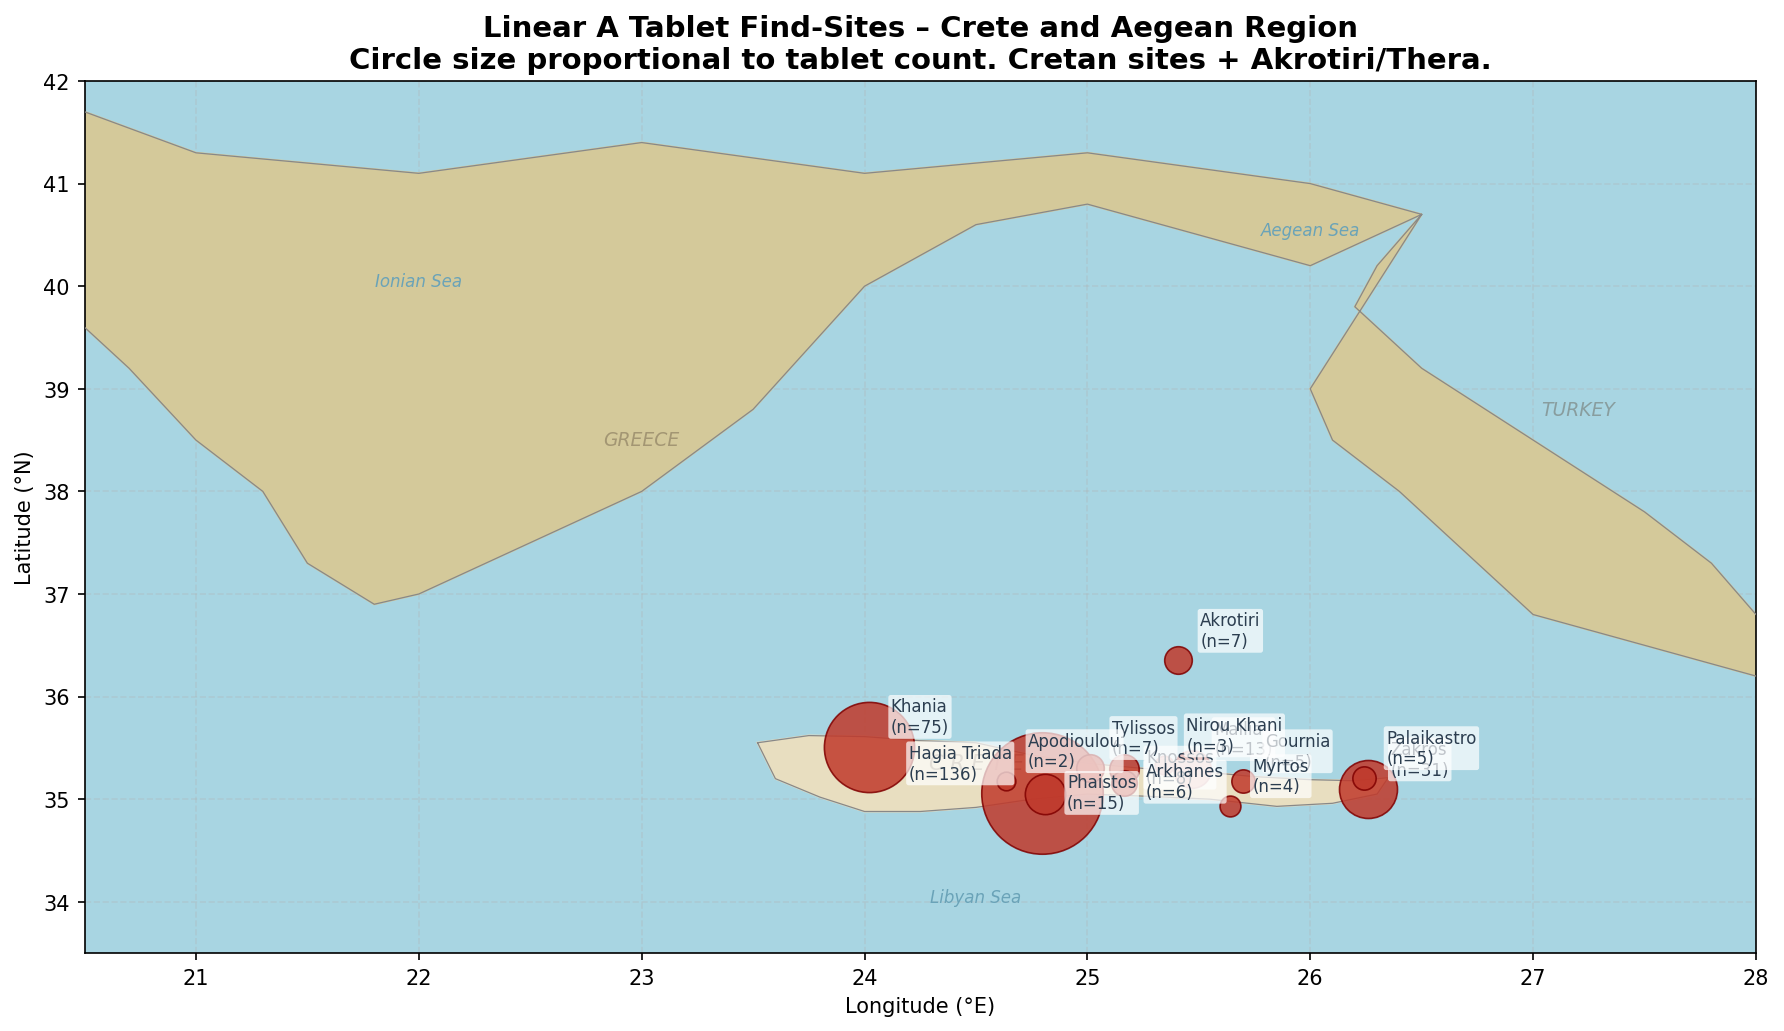
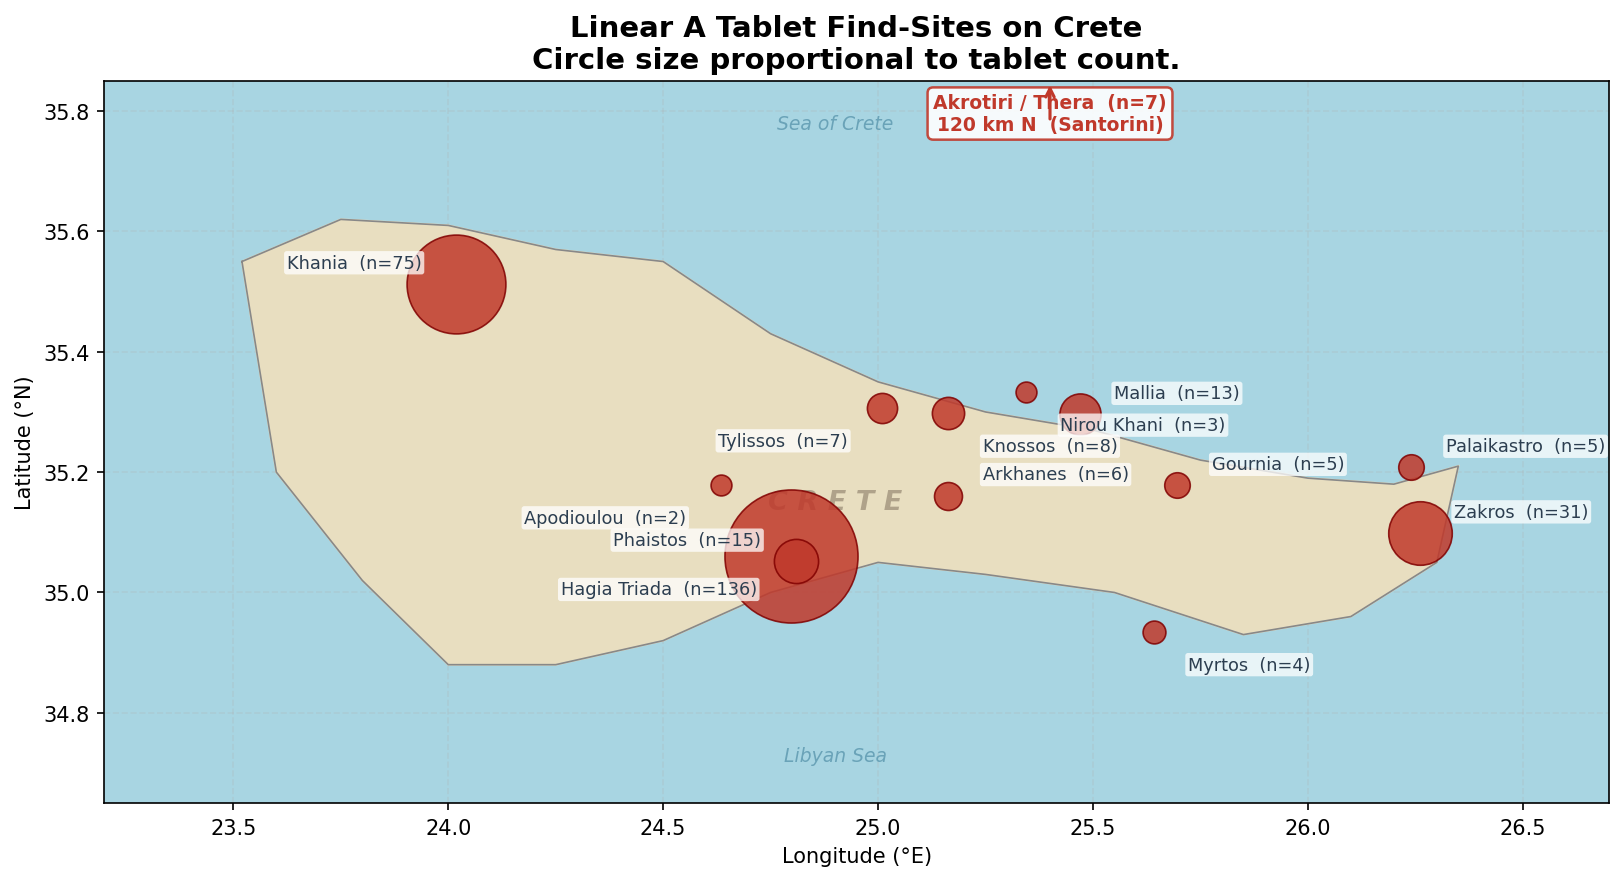
feat: zoom map to Crete only, improve timeline with range bars and jitter

diff --git a/builder_lina_stats.py b/builder_lina_stats.py
@@ -443,75 +443,96 @@ def _tbl_site_breakdown(df: pd.DataFrame) -> Tuple[str, str, str]:
 
 def _fig_site_map(df: pd.DataFrame) -> Tuple[str, str, str]:
     site_df  = get_site_summary_df(df)
-    fig, ax  = plt.subplots(figsize=(12, 7))
+    fig, ax  = plt.subplots(figsize=(14, 6))
 
     # Sea background
     ax.set_facecolor("#A8D5E2")
 
-    # Land polygons
-    for outline, color in [
-        (GREECE_OUTLINE,   "#D4C99A"),
-        (TURKEY_W_OUTLINE, "#D4C99A"),
-        (CRETE_OUTLINE,    "#E8DEC0"),
-    ]:
-        xs = [p[0] for p in outline]
-        ys = [p[1] for p in outline]
-        ax.fill(xs, ys, color=color, zorder=2)
-        ax.plot(xs + [xs[0]], ys + [ys[0]], color="#888888",
-                linewidth=0.6, zorder=3)
+    # Crete only
+    xs = [p[0] for p in CRETE_OUTLINE]
+    ys = [p[1] for p in CRETE_OUTLINE]
+    ax.fill(xs, ys, color="#E8DEC0", zorder=2)
+    ax.plot(xs + [xs[0]], ys + [ys[0]], color="#888888",
+            linewidth=0.8, zorder=3)
 
-    # Map extent: slightly wider than Crete extremes
-    ax.set_xlim(20.5, 28.0)
-    ax.set_ylim(33.5, 42.0)
+    # Map extent: tight around Crete with padding
+    ax.set_xlim(23.2, 26.7)
+    ax.set_ylim(34.65, 35.85)
+    ax.set_aspect(1.4)  # rough Mercator correction at 35°N
 
-    # Site scatter – size proportional to tablet count
+    # Manual label nudges: (offset_x, offset_y, ha, va)
+    _nudge = {
+        "Hagia Triada": (-0.08, -0.04, "right", "top"),
+        "Phaistos":     (-0.08,  0.02, "right", "bottom"),
+        "Knossos":      ( 0.08, -0.04, "left",  "top"),
+        "Arkhanes":     ( 0.08,  0.02, "left",  "bottom"),
+        "Khania":       (-0.08,  0.02, "right", "bottom"),
+        "Mallia":       ( 0.08,  0.02, "left",  "bottom"),
+        "Tylissos":     (-0.08, -0.04, "right", "top"),
+        "Myrtos":       ( 0.08, -0.04, "left",  "top"),
+        "Nirou Khani":  ( 0.08, -0.04, "left",  "top"),
+        "Gournia":      ( 0.08,  0.02, "left",  "bottom"),
+        "Palaikastro":  ( 0.08,  0.02, "left",  "bottom"),
+        "Apodioulou":   (-0.08, -0.04, "right", "top"),
+    }
+
+    # Cretan site scatter
     for _, row in site_df.iterrows():
-        size = max(80, row["tablet_count"] * 25)
+        if row["island"] != "Crete":
+            continue
+        size = max(100, row["tablet_count"] * 30)
         ax.scatter(row["lon"], row["lat"], s=size,
                    color="#C0392B", edgecolors="#800000",
                    linewidths=0.8, zorder=5, alpha=0.85)
-        # Label offset to avoid overlap
-        offset_x = 0.10
-        offset_y = 0.10
-        # Manual nudges for closely spaced sites
-        if row["site"] in ("Phaistos", "Knossos", "Arkhanes"):
-            offset_y = -0.18
-        if row["site"] == "Hagia Triada":
-            offset_x = -0.60
-        ax.text(row["lon"] + offset_x, row["lat"] + offset_y,
-                f"{row['site']}\n(n={row['tablet_count']})",
-                fontsize=8, zorder=6, color="#2C3E50",
-                ha="left", va="bottom",
-                bbox=dict(boxstyle="round,pad=0.15", fc="white",
-                          ec="none", alpha=0.7))
+        ox, oy, ha, va = _nudge.get(row["site"], (0.08, 0.02, "left", "bottom"))
+        ax.annotate(
+            f"{row['site']}  (n={row['tablet_count']})",
+            xy=(row["lon"], row["lat"]),
+            xytext=(row["lon"] + ox, row["lat"] + oy),
+            fontsize=8.5, color="#2C3E50", zorder=6,
+            ha=ha, va=va,
+            bbox=dict(boxstyle="round,pad=0.15", fc="white", ec="none", alpha=0.75),
+        )
 
-    # Annotations
-    ax.text(24.5, 35.35, "C R E T E", fontsize=10, color="#5A4A3A",
-            ha="center", va="center", alpha=0.5, style="italic", zorder=4)
-    ax.text(23.0, 38.5, "GREECE", fontsize=9, color="#5A4A3A",
-            ha="center", va="center", alpha=0.4, style="italic", zorder=4)
-    ax.text(27.2, 38.8, "TURKEY", fontsize=9, color="#5A4A3A",
-            ha="center", va="center", alpha=0.4, style="italic", zorder=4)
-    ax.text(24.5, 34.0, "Libyan Sea", fontsize=8, color="#6AA3B8",
+    # Akrotiri callout (off-map, annotated in corner)
+    akrotiri = site_df[site_df["site"] == "Akrotiri"]
+    if not akrotiri.empty:
+        n = int(akrotiri.iloc[0]["tablet_count"])
+        ax.annotate(
+            f"Akrotiri / Thera  (n={n})\n120 km N  (Santorini)",
+            xy=(25.4, 35.83), fontsize=9, color="#C0392B",
+            ha="center", va="top", fontweight="bold",
+            bbox=dict(boxstyle="round,pad=0.3", fc="white", ec="#C0392B",
+                      alpha=0.9, linewidth=1.2),
+            zorder=7,
+        )
+        # north-pointing arrow
+        ax.annotate("", xy=(25.4, 35.85), xytext=(25.4, 35.78),
+                    arrowprops=dict(arrowstyle="->", color="#C0392B", lw=1.5),
+                    zorder=7)
+
+    # Island label
+    ax.text(24.9, 35.15, "C R E T E", fontsize=13, color="#5A4A3A",
+            ha="center", va="center", alpha=0.4, style="italic",
+            fontweight="bold", zorder=4)
+    ax.text(24.9, 34.72, "Libyan Sea", fontsize=9, color="#6AA3B8",
             ha="center", style="italic", zorder=4)
-    ax.text(22.0, 40.0, "Ionian Sea", fontsize=8, color="#6AA3B8",
-            ha="center", style="italic", zorder=4)
-    ax.text(26.0, 40.5, "Aegean Sea", fontsize=8, color="#6AA3B8",
+    ax.text(24.9, 35.77, "Sea of Crete", fontsize=9, color="#6AA3B8",
             ha="center", style="italic", zorder=4)
 
     ax.set_xlabel("Longitude (°E)", fontsize=10)
     ax.set_ylabel("Latitude (°N)", fontsize=10)
-    ax.set_title("Linear A Tablet Find-Sites – Crete and Aegean Region\n"
-                 "Circle size proportional to tablet count. Cretan sites + Akrotiri/Thera.",
+    ax.set_title("Linear A Tablet Find-Sites on Crete\n"
+                 "Circle size proportional to tablet count.",
                  fontsize=_TITLE_FONTSIZE, fontweight="bold")
-    ax.grid(linestyle="--", alpha=0.3, zorder=1)
+    ax.grid(linestyle="--", alpha=0.25, zorder=1)
 
     fig.tight_layout()
     path = os.path.join(FIGURES_DIR, "fig_03_site_map.png")
     fig.savefig(path, dpi=_DPI, bbox_inches="tight")
     plt.close(fig)
     print("[stats] saved fig_03_site_map.png")
-    return ("Map", "Tablet Find-Sites – Aegean Region", path)
+    return ("Map", "Tablet Find-Sites – Crete", path)
 
 
 # ---------------------------------------------------------------------------
@@ -535,21 +556,44 @@ def _fig_timeline(df: pd.DataFrame) -> Tuple[str, str, str]:
 
     color_map = {"clay": _COLORS["clay"], "stone": _COLORS["stone"]}
 
+    # Draw a faint horizontal span per site showing its date range
     for i, site in enumerate(site_order):
         grp = plot_df[plot_df["site"] == site]
-        for _, row in grp.iterrows():
-            c = color_map.get(row["material"], "#AAAAAA")
-            ax.scatter(row["date_bce"], i, color=c, s=70,
-                       edgecolors="white", linewidths=0.5, zorder=3, alpha=0.9)
+        lo, hi = grp["date_bce"].min(), grp["date_bce"].max()
+        ax.barh(i, hi - lo, left=lo, height=0.35, color="#D5D8DC",
+                edgecolor="none", zorder=2, alpha=0.7)
+        # Tablet count label at right edge
+        ax.text(hi + 4, i, f"n={len(grp)}", va="center", fontsize=8,
+                color="#888888", zorder=4)
+
+    # Jitter overlapping points within each site
+    for i, site in enumerate(site_order):
+        grp = plot_df[plot_df["site"] == site]
+        dates = grp["date_bce"].values
+        materials = grp["material"].values
+        # Determine jitter offsets for stacked points at same date
+        date_counts: dict = {}
+        jitters = []
+        for d in dates:
+            date_counts.setdefault(d, 0)
+            jitters.append(date_counts[d])
+            date_counts[d] += 1
+        for d, mat, j in zip(dates, materials, jitters):
+            # Centre the stack
+            total_at = date_counts[d]
+            y_off = (j - (total_at - 1) / 2) * 0.06
+            c = color_map.get(mat, "#AAAAAA")
+            ax.scatter(d, i + y_off, color=c, s=60,
+                       edgecolors="white", linewidths=0.4, zorder=3, alpha=0.9)
 
     ax.set_yticks(range(len(site_order)))
     ax.set_yticklabels(site_order, fontsize=10)
     ax.invert_xaxis()           # older dates on the left
     ax.set_xlabel("Approximate date (BCE)", fontsize=11)
     ax.set_title("Tablet Corpus – Estimated Date by Find-Site\n"
-                 "Each point = one tablet. X-axis: approx. BCE (older → left).",
+                 "Each dot = one tablet. Grey bar = site date range.",
                  fontsize=_TITLE_FONTSIZE, fontweight="bold")
-    ax.grid(axis="x", linestyle="--", alpha=0.4, zorder=1)
+    ax.grid(axis="x", linestyle="--", alpha=0.3, zorder=1)
 
     legend_patches = [
         mpatches.Patch(color=_COLORS["clay"],  label="Clay tablet"),
